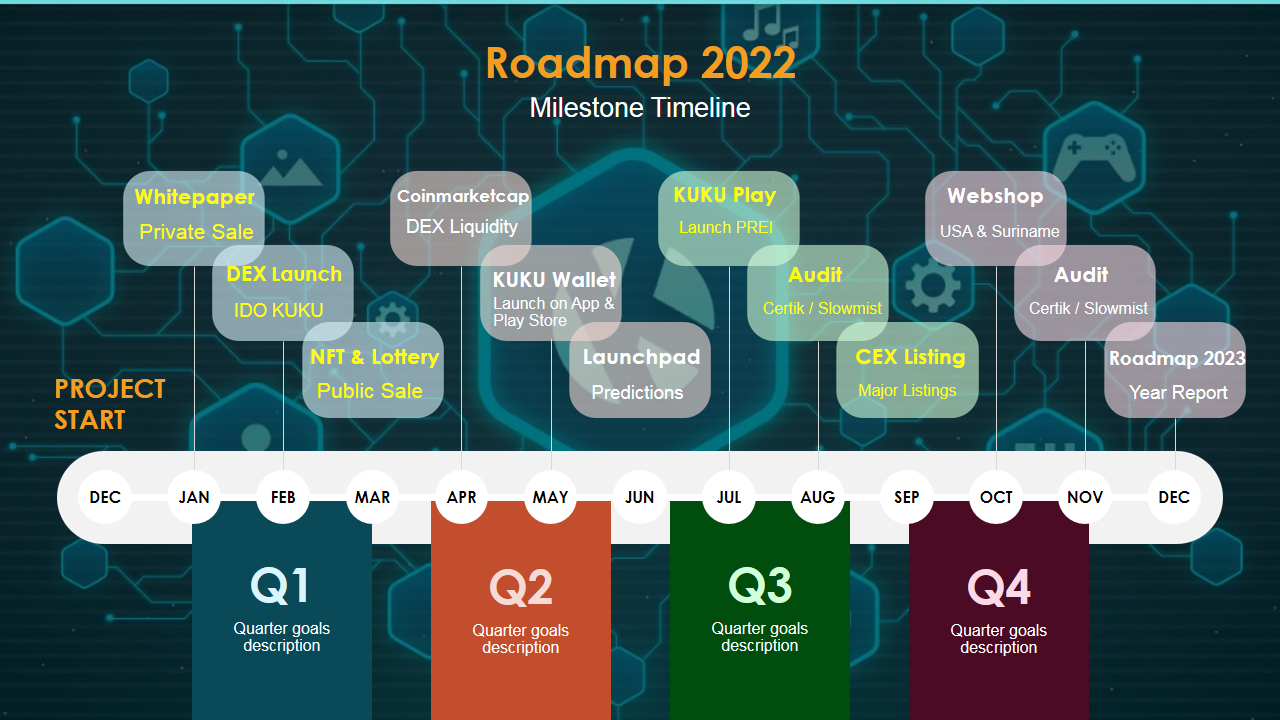
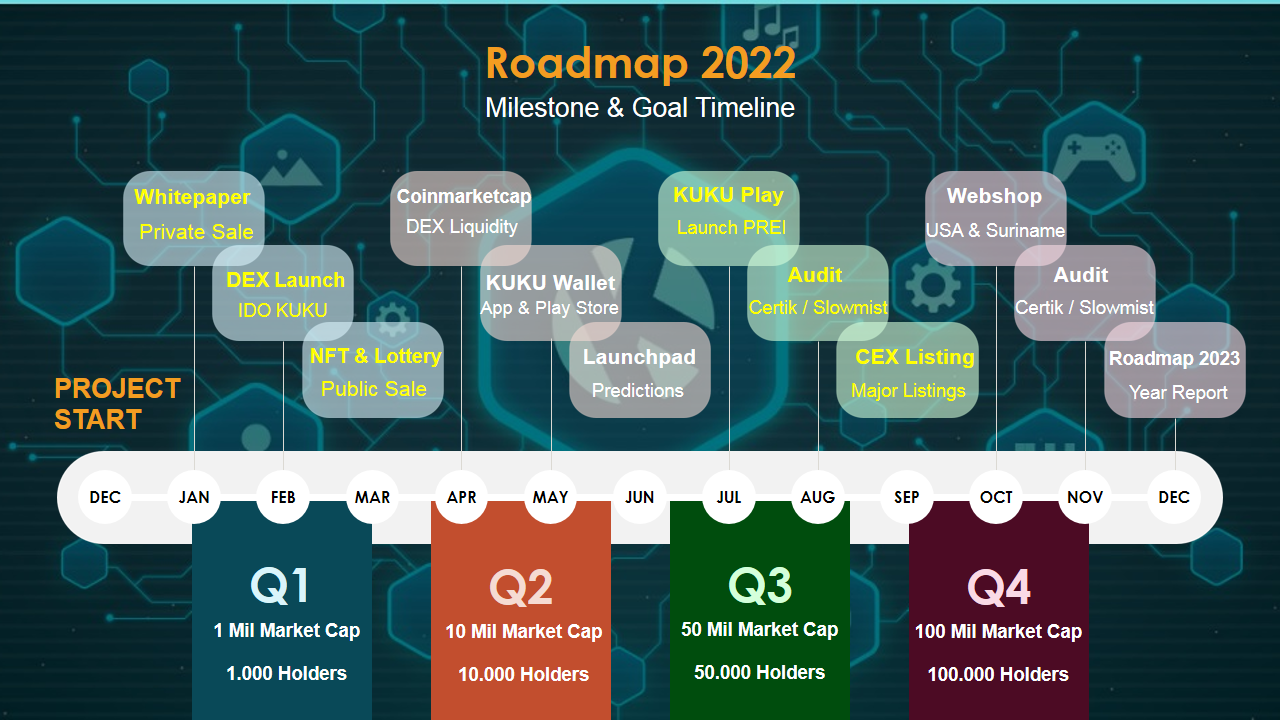
GitBook: [#43] No subject

diff --git a/about-us/roadmap-2022.md b/about-us/roadmap-2022.md
@@ -1,11 +1,10 @@
 ---
-description: Coming Soon
+description: It's not just a Map. It's a Compass.
 cover: ../.gitbook/assets/1587741938.png
 coverY: 0
 ---
 
 # Roadmap 2022
 
-![](<../.gitbook/assets/Roadmap\_2022\_AdobeCreativeCloudExpress (1).gif>)
-
-![](<../.gitbook/assets/Roadmap 2022.png>)
+![We are more in need of a vision or destination and a compass (set of principles or directions) and less in need of a road map. We often don’t know what the terrain ahead will be like or what we will need to go through it; much will depend on our judgment at the time. But an inner compass will always give us direction.
+\~ Stephen R. Covey. The 7 Habits of Highly Effective People](<../.gitbook/assets/Roadmap 2022.png>)

diff --git a/products/the-exchange/README.md b/products/the-exchange/README.md
@@ -12,6 +12,6 @@ description: The Healthiest Exchange on Binance Smart Chain
 **Low Fees**\
 ****Running on Binance Smart Chain (BSC) has the biggest advantage for the lowest transaction costs.
 
-**Decentralized**\
-Connect your wallet, do your thing, Disconnect! As easy as that!\
+**Decentralized Finance**\
+Connect your wallet, do your thing, disconnect! As easy as that!\
 We don't hold your funds; you have full 100% Ownership of your own crypto.
